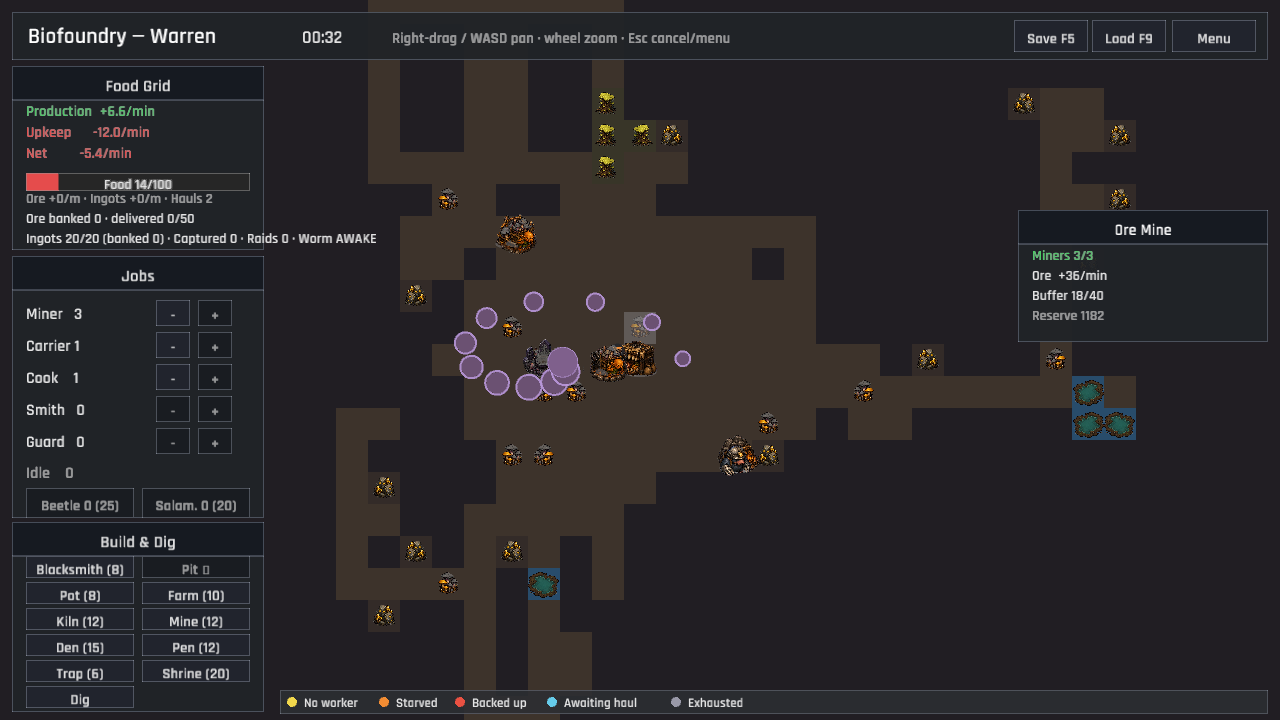
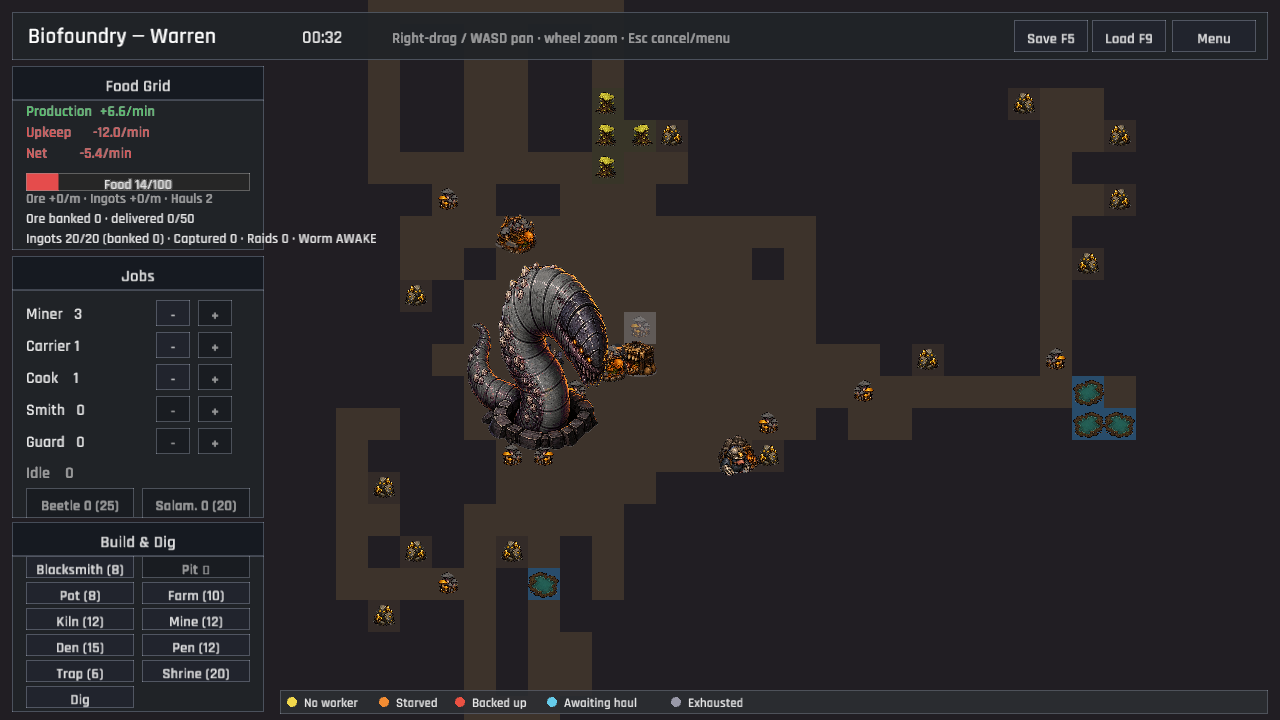
The Colossal Worm rises in flesh and ink (awakened-worm sprite pass)
The campaign's final landmark was still rendered as a rotating collection of\ncircles after the rest of the warren had received painted creatures, terrain,\nand production structures. Replace that placeholder with the embedded\ncolossal-worm.png illustration, scaled from the shrine with a restrained\nbreathing motion.\n\nRefresh the dedicated worm capture so the end-state framing remains\ninspectable. cargo test passes 55 gameplay tests and the source-size guard;\npublish.ps1 passes the Windows and WebGL builds, packages, and preview\ndeployment.\n\nCo-Authored-By: Codex <noreply@openai.com>

diff --git a/src/ui/warren/sprites.rs b/src/ui/warren/sprites.rs
@@ -13,6 +13,7 @@ const CREATURE_ATLAS_BYTES: &[u8] = include_bytes!("../../../assets/sprites/crea
 const BUILDING_ATLAS_BYTES: &[u8] = include_bytes!("../../../assets/sprites/building-atlas.png");
 const TERRAIN_ATLAS_BYTES: &[u8] = include_bytes!("../../../assets/sprites/terrain-atlas.png");
 const SPECIAL_ATLAS_BYTES: &[u8] = include_bytes!("../../../assets/sprites/special-atlas.png");
+const COLOSSAL_WORM_BYTES: &[u8] = include_bytes!("../../../assets/sprites/colossal-worm.png");
 
 /// Hand-painted workers and production props, packed as three-by-two atlases.
 #[derive(Debug, Clone)]
@@ -21,6 +22,7 @@ pub struct WorldSprites {
     buildings: SpriteAtlas,
     terrain: SpriteAtlas,
     special: SpriteAtlas,
+    colossal_worm: Texture2D,
 }
 
 impl WorldSprites {
@@ -29,13 +31,33 @@ impl WorldSprites {
         let buildings = load_atlas(BUILDING_ATLAS_BYTES);
         let terrain = load_atlas(TERRAIN_ATLAS_BYTES);
         let special = load_atlas(SPECIAL_ATLAS_BYTES);
+        let colossal_worm = Texture2D::from_file_with_format(COLOSSAL_WORM_BYTES, None);
+        colossal_worm.set_filter(FilterMode::Linear);
         Self {
             creatures,
             buildings,
             terrain,
             special,
+            colossal_worm,
         }
     }
+}
+
+/// Draw the awakened worm as a single monumental illustration, with only a
+/// small breathing motion so it remains a landmark rather than visual noise.
+pub fn draw_colossal_worm(sprites: &WorldSprites, center: Vec2, tick: u64, ts: f32) {
+    let pulse = (tick as f32 * 0.028).sin();
+    let size = ts * (6.35 + pulse * 0.10);
+    draw_texture_ex(
+        &sprites.colossal_worm,
+        center.x - size * 0.5,
+        center.y - size * 0.53 + pulse * ts * 0.06,
+        WHITE,
+        DrawTextureParams {
+            dest_size: Some(vec2(size, size)),
+            ..Default::default()
+        },
+    );
 }
 
 /// Overlay the hand-painted terrain component over the quiet logical tile.

diff --git a/src/ui/warren.rs b/src/ui/warren.rs
@@ -52,14 +52,14 @@ pub fn draw_world(
         sprites::draw_wild(wild, sprites, tile_size);
     }
     if session.worm_awake {
-        draw_colossal_worm(session, tile_size);
+        draw_colossal_worm(session, sprites, tile_size);
     }
     draw_tool_ghost(session, tile_size, mode, hover);
 }
 
-/// The awakened monument: a vast segmented worm coiling out of the
-/// shrine — cosmetic, but it earns its screen space.
-fn draw_colossal_worm(session: &GameSession, ts: f32) {
+/// The awakened monument rises from its shrine as a proper illustrated
+/// landmark, rather than a procedural ring of segments.
+fn draw_colossal_worm(session: &GameSession, sprites: &WorldSprites, ts: f32) {
     let Some(shrine) = session.buildings_of("worm_shrine").next() else {
         return;
     };
@@ -67,24 +67,7 @@ fn draw_colossal_worm(session: &GameSession, ts: f32) {
         shrine.pos.x as f32 * ts + ts * 0.5,
         shrine.pos.y as f32 * ts + ts * 0.5,
     );
-    let t = session.tick as f32 * 0.02;
-    for i in (0..12).rev() {
-        let u = i as f32;
-        let angle = t + u * 0.55;
-        let radius = ts * (0.6 + u * 0.34);
-        let px = sx + angle.cos() * radius;
-        let py = sy + angle.sin() * radius * 0.55;
-        let size = ts * (0.42 - u * 0.02);
-        draw_circle(px, py, size, Color::new(0.42, 0.32, 0.45, 1.0));
-        draw_circle_lines(px, py, size, 2.0, Color::new(0.70, 0.55, 0.85, 0.9));
-    }
-    // The head, nearest the shrine.
-    draw_circle(
-        sx + t.cos() * ts * 0.6,
-        sy + t.sin() * ts * 0.33,
-        ts * 0.46,
-        Color::new(0.50, 0.38, 0.55, 1.0),
-    );
+    sprites::draw_colossal_worm(sprites, vec2(sx, sy), session.tick, ts);
 }
 
 fn draw_tiles(session: &GameSession, sprites: &WorldSprites, ts: f32) {
